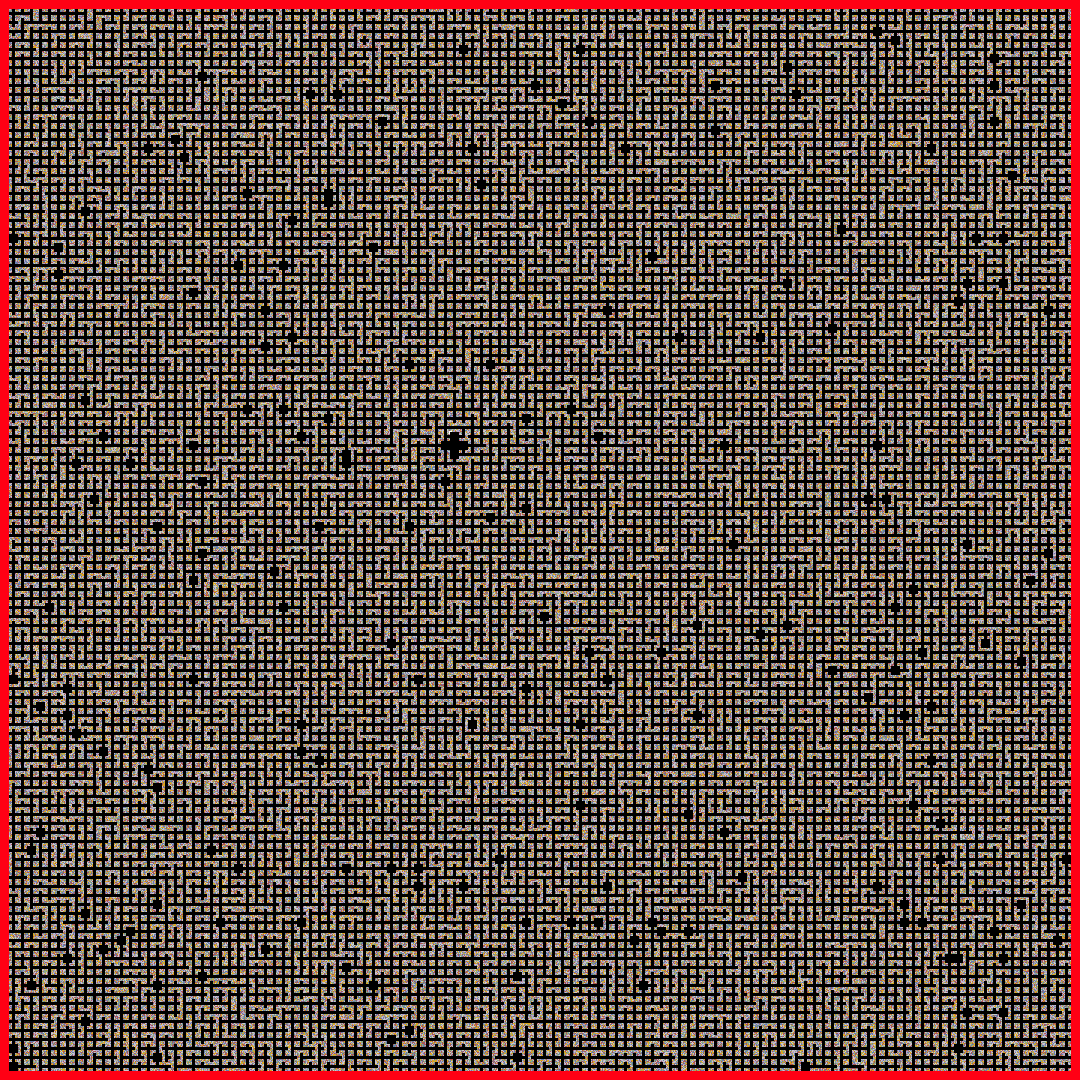
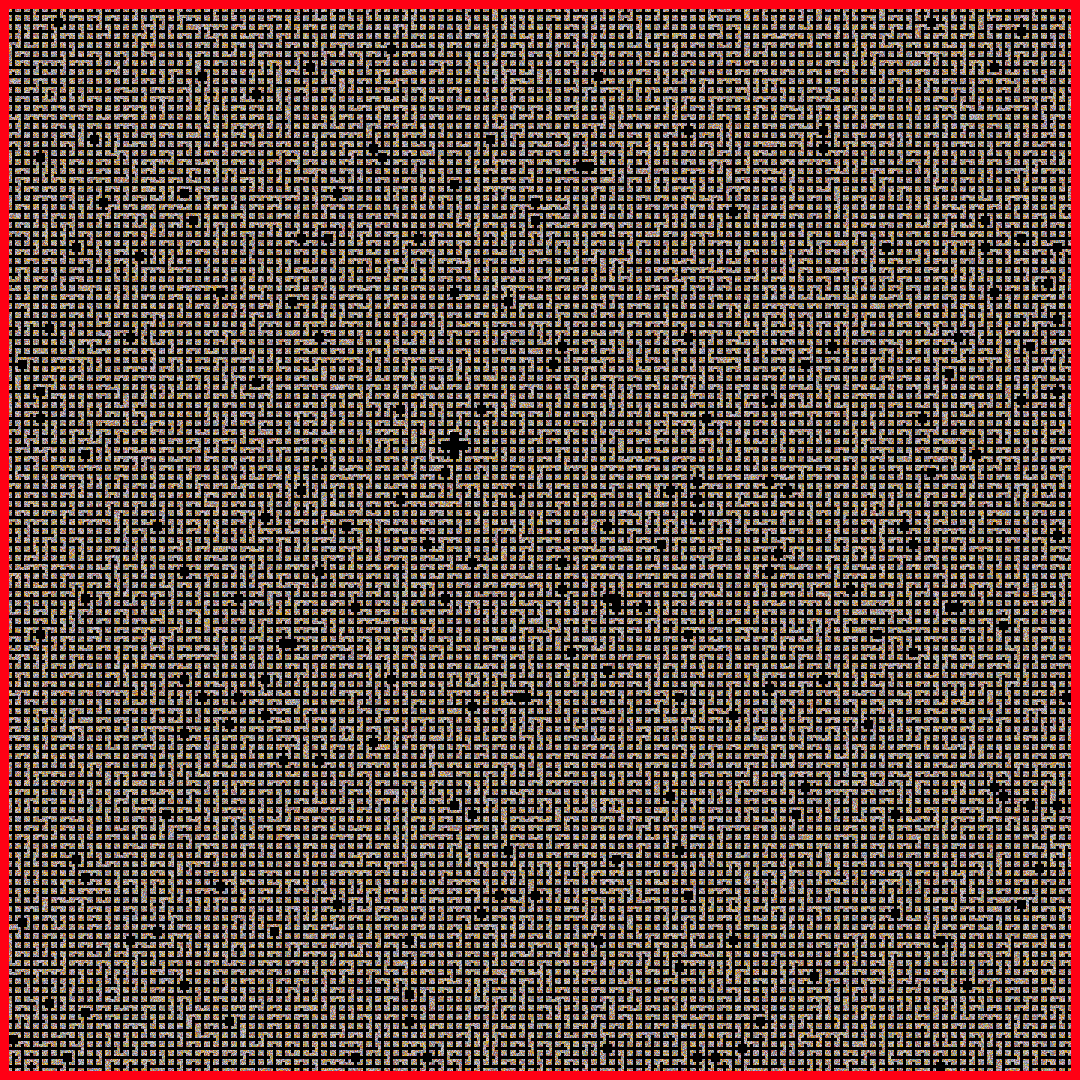
Animatie bij bomen die worden aangereden

diff --git a/IB2.py b/IB2.py
@@ -453,7 +453,7 @@ def handen_sprite(renderer, handen_doos):
 
 
 def render_sprites(renderer, sprites, player, d, delta, update):
-    global world_map, sprites_autos
+    global world_map, sprites_autos,sprites_bomen
     sprites.sort(reverse=True, key=lambda sprite: sprite.afstanden(player.p_x, player.p_y))  # Sorteren op afstand
 
     max_dist = 80
@@ -536,17 +536,26 @@ def render_sprites(renderer, sprites, player, d, delta, update):
 
         if kolom == -1:
             continue
-
+        if sprite.fall == 0:
+            renderer.copy(image, srcrect=(
+                initieel / sprite_size_breedte * spriteBreedte, 0, spriteBreedte * breedte / sprite_size_breedte,
+                sprite_size_hoogte * sprite.afstand),
+                          dstrect=(kolom, screen_y, breedte, sprite_size_hoogte))
+            zichtbaar.append(sprite)
+            continue
+        print(time.time()-sprite.fall)
         renderer.copy(image, srcrect=(
             initieel / sprite_size_breedte * spriteBreedte, 0, spriteBreedte * breedte / sprite_size_breedte,
             sprite_size_hoogte * sprite.afstand),
-                      dstrect=(kolom, screen_y, breedte, sprite_size_hoogte))
-        zichtbaar.append(sprite)
+                      dstrect=(kolom, screen_y+1000*(time.time()-sprite.fall)/sprite_distance, breedte, sprite_size_hoogte),angle= 400*(time.time()-sprite.fall))
+        if time.time() - sprite.fall >= 0.2:
+            sprites_bomen.remove(sprite)
+
     return zichtbaar
 
 
 def collision_auto(zichtbare_sprites):
-    global sprites_bomen, sprites_autos
+    global  sprites_autos
     place_array = np.array([[sprite.x, sprite.y] for sprite in zichtbare_sprites])
     lenght = len(zichtbare_sprites)
 
@@ -568,7 +577,7 @@ def collision_auto(zichtbare_sprites):
                         check[index] = False
                         continue
                     elif soort == "Boom":
-                        sprites_bomen.remove(check_sprite)
+                        check_sprite.fall = time.time()
                     elif soort == "Politie":
                         raise NotImplementedError("Politie tegengekomen")
                     else:

diff --git a/Classes.py b/Classes.py
@@ -12,7 +12,7 @@ from sdl2 import *
 
 
 class Sprite:
-    def __init__(self, image, images, map_png, x, y, height, soort, schaal=0.4):
+    def __init__(self, image, images, map_png, x, y, height, soort, schaal=0.4,fall = 0):
         """image, images (can be []), map_png, x, y, height, soort, schaal=0.4"""
         self.images = images
         self.image = image  # The image of the sprite
@@ -28,6 +28,7 @@ class Sprite:
         self.schadelijk = True
         self.soort = soort
         self.schaal = schaal
+        self.fall = fall
 
     def afstanden(self, x, y):
         """Berekend afstand ifv speler.
